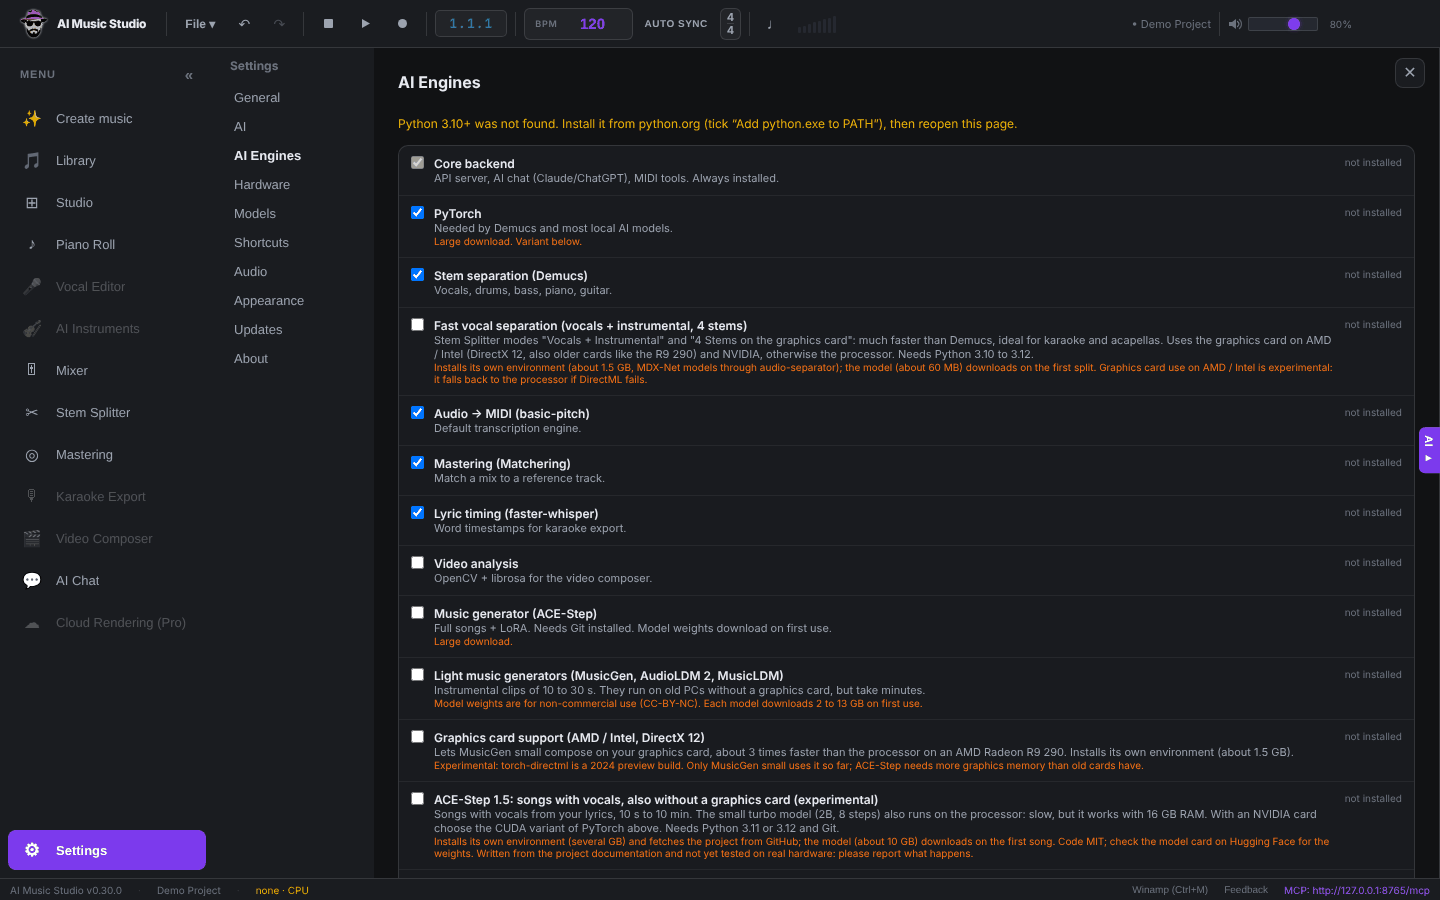
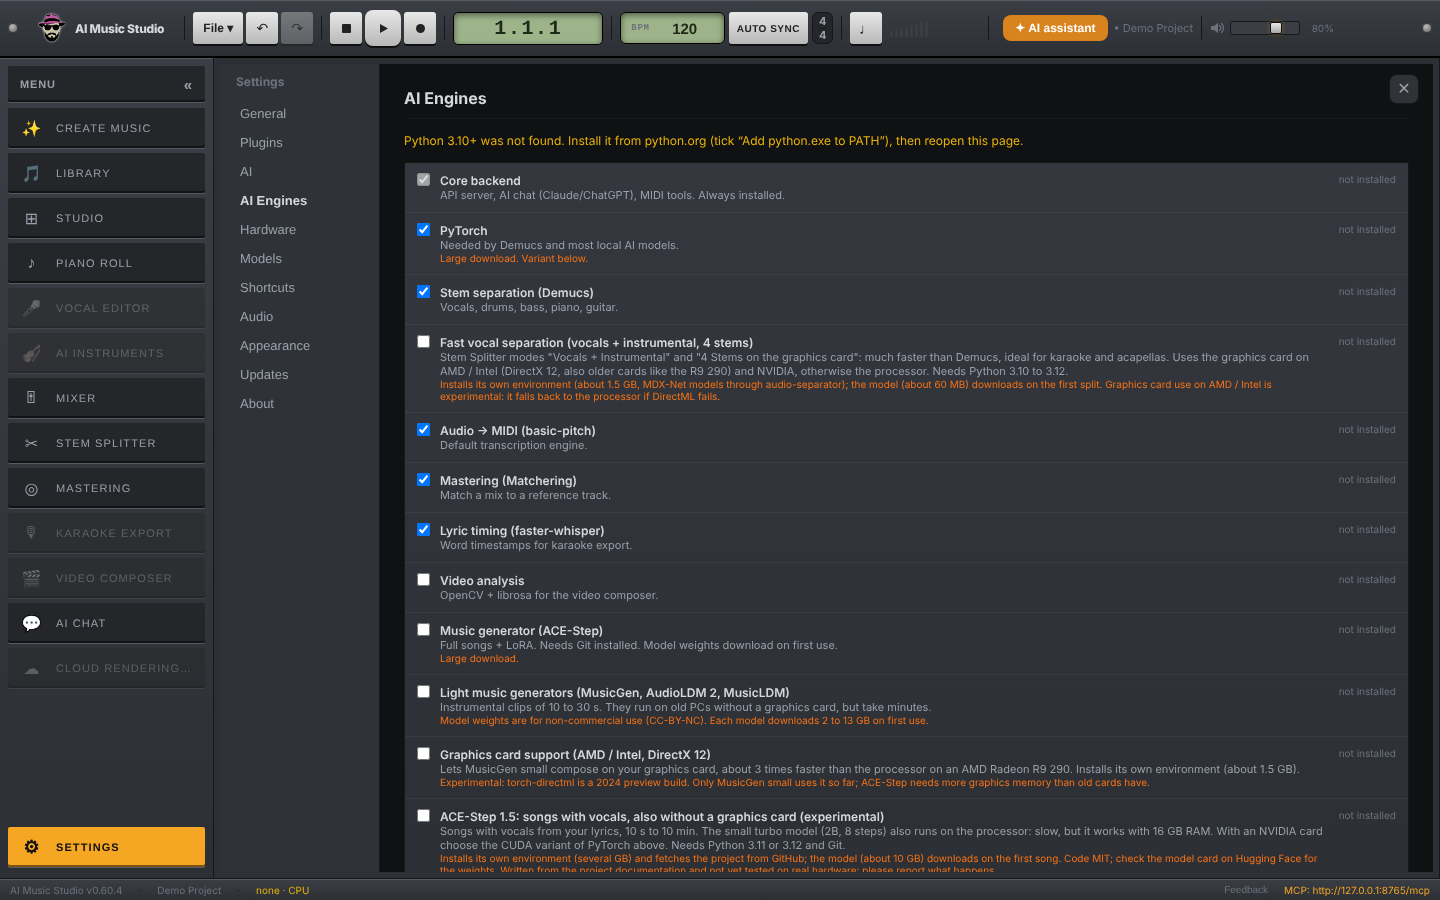
README: all screenshots in the Hardware rack look
Claude-Session: https://claude.ai/code/session_013zCgTr6dt9d3xsck6W1V2X

diff --git a/README.md b/README.md
@@ -76,7 +76,7 @@ A full arrangement studio in the app, with the shortcuts of **Ableton Live 12** 
 
 ## Screenshots
 
-*Shown with demo content: example songs, a demo project and a PC without AI engines installed yet. Piano Roll, Mixer, Mastering and Settings are shown in the Hardware rack look.*
+*Shown with demo content: example songs, a demo project and a PC without AI engines installed yet. All pages below the first picture are shown in the Hardware rack look.*
 
 <img src="docs/screenshots/layout-dark.png" alt="Studio" width="100%">
 **Studio** – arrangement with loop and markers, volume automation, tempo-synced loops pasted one after the other, MIDI tracks with the free instruments Dexed and Surge XT and a reverb return track.
